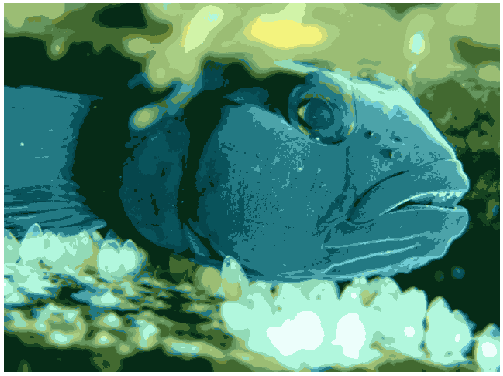
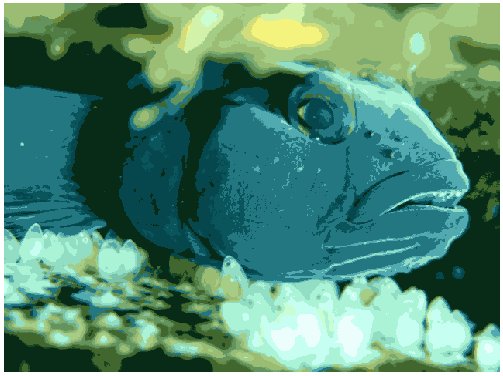
Updated2

diff --git a/HW6/hw6.2.py b/HW6/hw6.2.py
@@ -69,7 +69,7 @@ def run_em(img, n_clusters, samples, cluster_labels):
     w = np.ones(1)
 
     count = 0
-    while(not np.allclose(w,w_old) and count < 300):
+    while(not np.allclose(w,w_old) and count < 200):
         print("One Iteration - ", count)
         count += 1
         w_old = np.copy(w)
@@ -79,7 +79,7 @@ def run_em(img, n_clusters, samples, cluster_labels):
     return w, cluster_mus
 
 def run_6_21():
-    n_clusters_list = [10, 20, 50]
+    n_clusters_list = [50]
     images = ['RobertMixed03.jpg', 'smallstrelitzia.jpg', 'smallsunset.jpg']
     for image_name in images:
         for n_clusters in n_clusters_list:
@@ -167,7 +167,7 @@ def run_6_22():
 
 def main():
     run_6_21()
-    run_6_22()
+    #run_6_22()
 
 if __name__ == '__main__':
     main()
